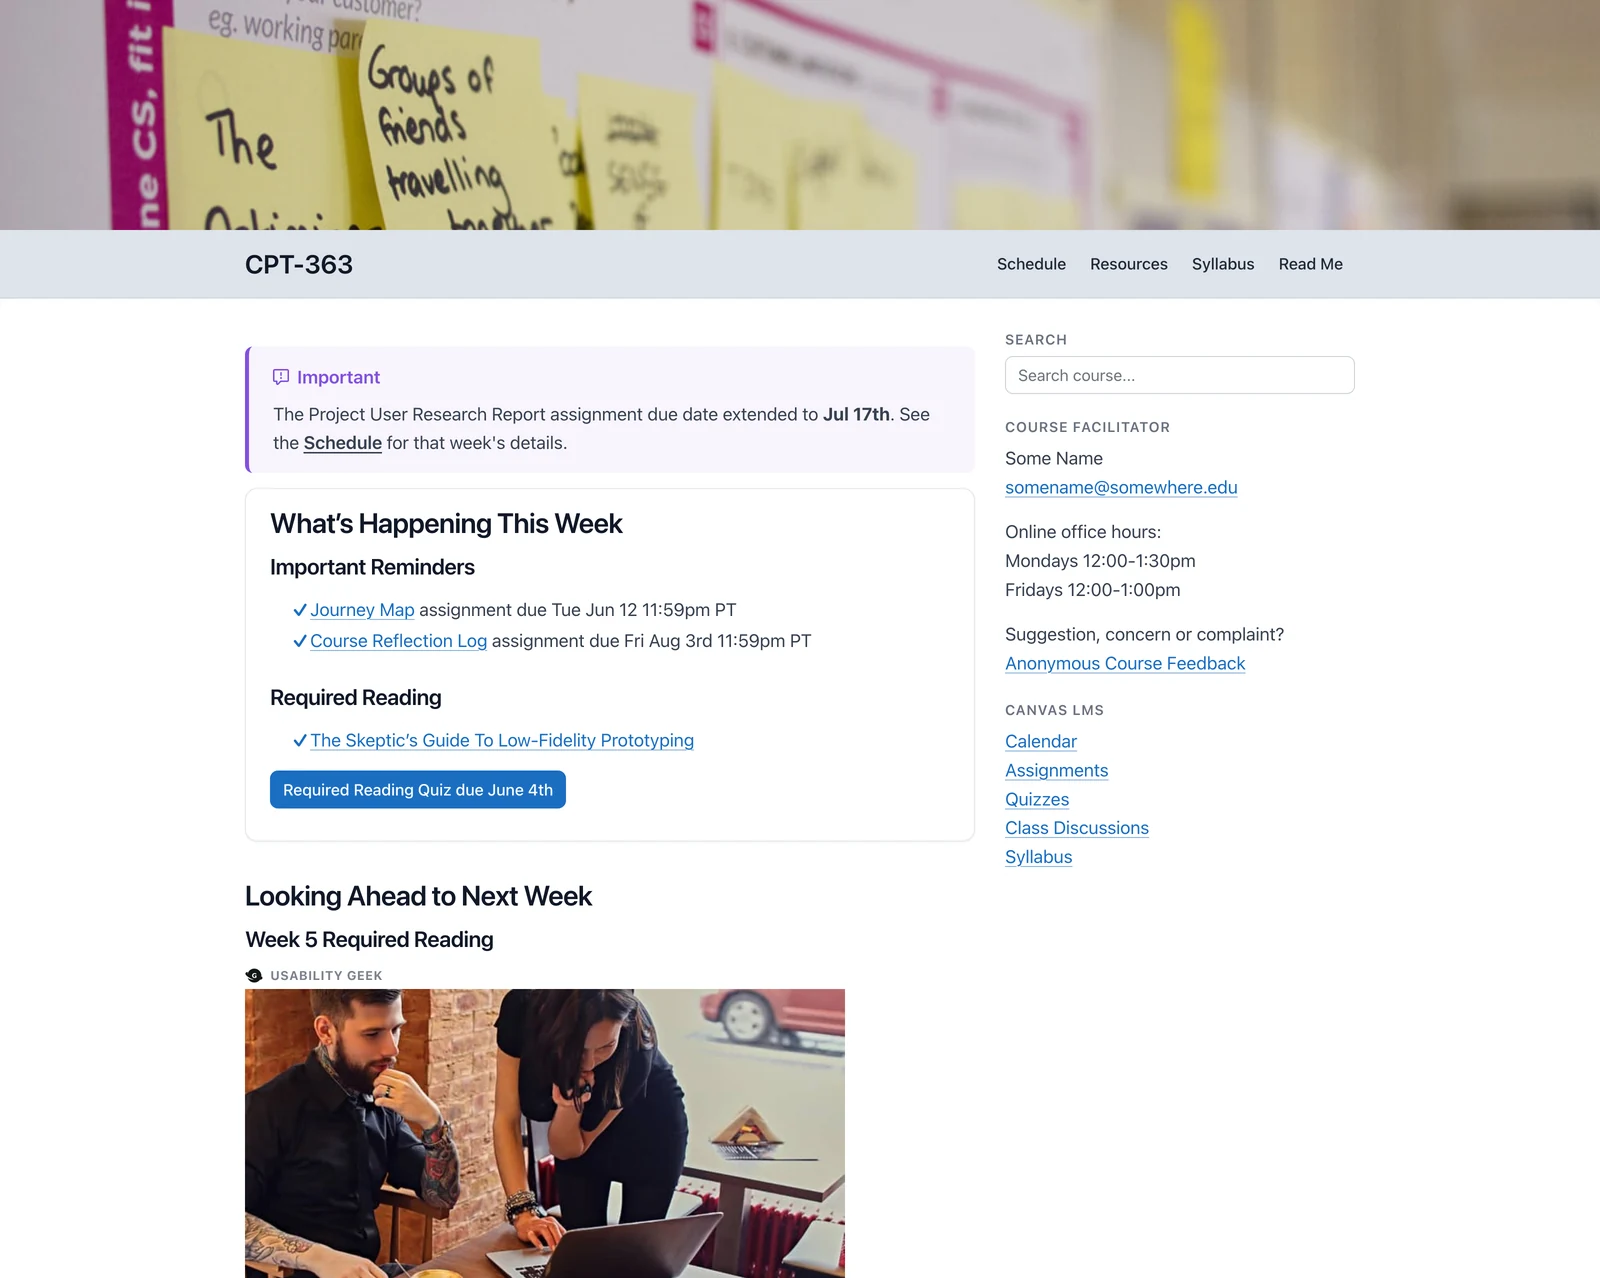
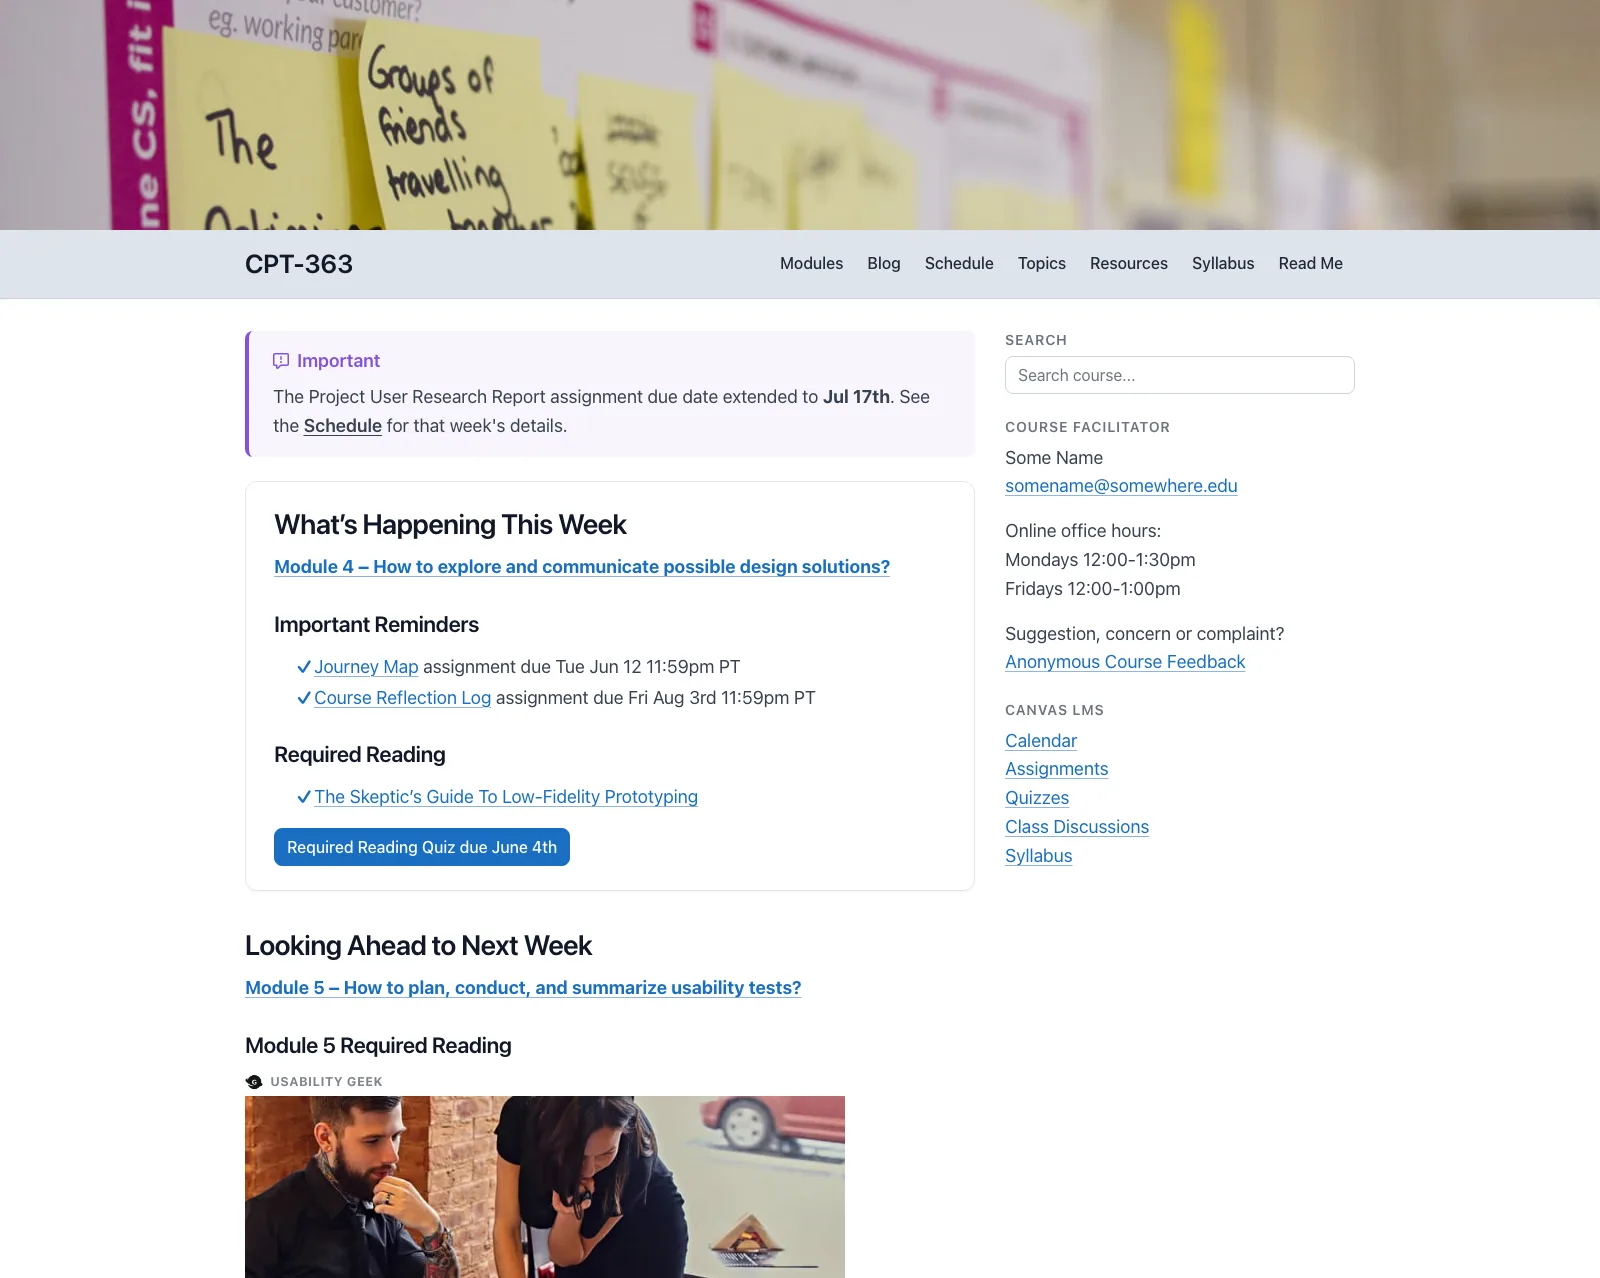
Show the course blog and a module page in the README screenshots.

diff --git a/README.md b/README.md
@@ -12,9 +12,11 @@
 
 <p>A free, open-source child theme of the <a href="https://github.com/trilbymedia/grav-theme-bootstrap4">Grav Bootstrap4 theme</a>, built for <a href="https://getgrav.org">Grav CMS</a> with Markdown file-based content, a built-in Admin panel, and no database required. Used by the <a href="https://github.com/hibbitts-design/grav-skeleton-course-hub">Open Course Hub</a> and <a href="https://github.com/hibbitts-design/grav-skeleton-multicourse-hub">Open MultiCourse Hub</a> skeleton packages.</p>
 
-<a href="https://raw.githubusercontent.com/hibbitts-design/grav-theme-bootstrap4-open-matter/refs/heads/master/screenshots/screenshot.webp"><img alt="Course homepage with weekly reminders, required reading, and a course sidebar with LMS links, in light mode" src="https://raw.githubusercontent.com/hibbitts-design/grav-theme-bootstrap4-open-matter/refs/heads/master/screenshots/screenshot.webp" width="49%"></a> <a href="https://raw.githubusercontent.com/hibbitts-design/grav-theme-bootstrap4-open-matter/refs/heads/master/screenshots/screenshot-module-dark.webp"><img alt="Modules page with a card for each module, and the course sidebar on the right, in dark mode" src="https://raw.githubusercontent.com/hibbitts-design/grav-theme-bootstrap4-open-matter/refs/heads/master/screenshots/screenshot-module-dark.webp" width="49%"></a>
+<a href="https://raw.githubusercontent.com/hibbitts-design/grav-theme-bootstrap4-open-matter/refs/heads/master/screenshots/screenshot.webp"><img alt="Course homepage with this week's module, reminders and required reading, and a course sidebar with LMS links, in light mode" src="https://raw.githubusercontent.com/hibbitts-design/grav-theme-bootstrap4-open-matter/refs/heads/master/screenshots/screenshot.webp" width="49%"></a> <a href="https://raw.githubusercontent.com/hibbitts-design/grav-theme-bootstrap4-open-matter/refs/heads/master/screenshots/screenshot-module-dark.webp"><img alt="Modules page with a card for each module, and the course sidebar on the right, in dark mode" src="https://raw.githubusercontent.com/hibbitts-design/grav-theme-bootstrap4-open-matter/refs/heads/master/screenshots/screenshot-module-dark.webp" width="49%"></a>
 
-<p>Open Course Hub – Course homepage in light mode (left) and the Modules page in dark mode (right)</p>
+<a href="https://raw.githubusercontent.com/hibbitts-design/grav-theme-bootstrap4-open-matter/refs/heads/master/screenshots/screenshot-blog-dark.webp"><img alt="Course blog with a featured post and other posts, and a sidebar with Popular Tags, Archives and RSS, in dark mode" src="https://raw.githubusercontent.com/hibbitts-design/grav-theme-bootstrap4-open-matter/refs/heads/master/screenshots/screenshot-blog-dark.webp" width="49%"></a> <a href="https://raw.githubusercontent.com/hibbitts-design/grav-theme-bootstrap4-open-matter/refs/heads/master/screenshots/screenshot-module-page.webp"><img alt="Module 4 page with its slides, and a list of all modules on the right with Module 4 highlighted, in light mode" src="https://raw.githubusercontent.com/hibbitts-design/grav-theme-bootstrap4-open-matter/refs/heads/master/screenshots/screenshot-module-page.webp" width="49%"></a>
+
+<p>Open Course Hub – Course homepage and Modules page (top), and the course blog and a module page (bottom), in light and dark mode</p>
 
 </div>
 
